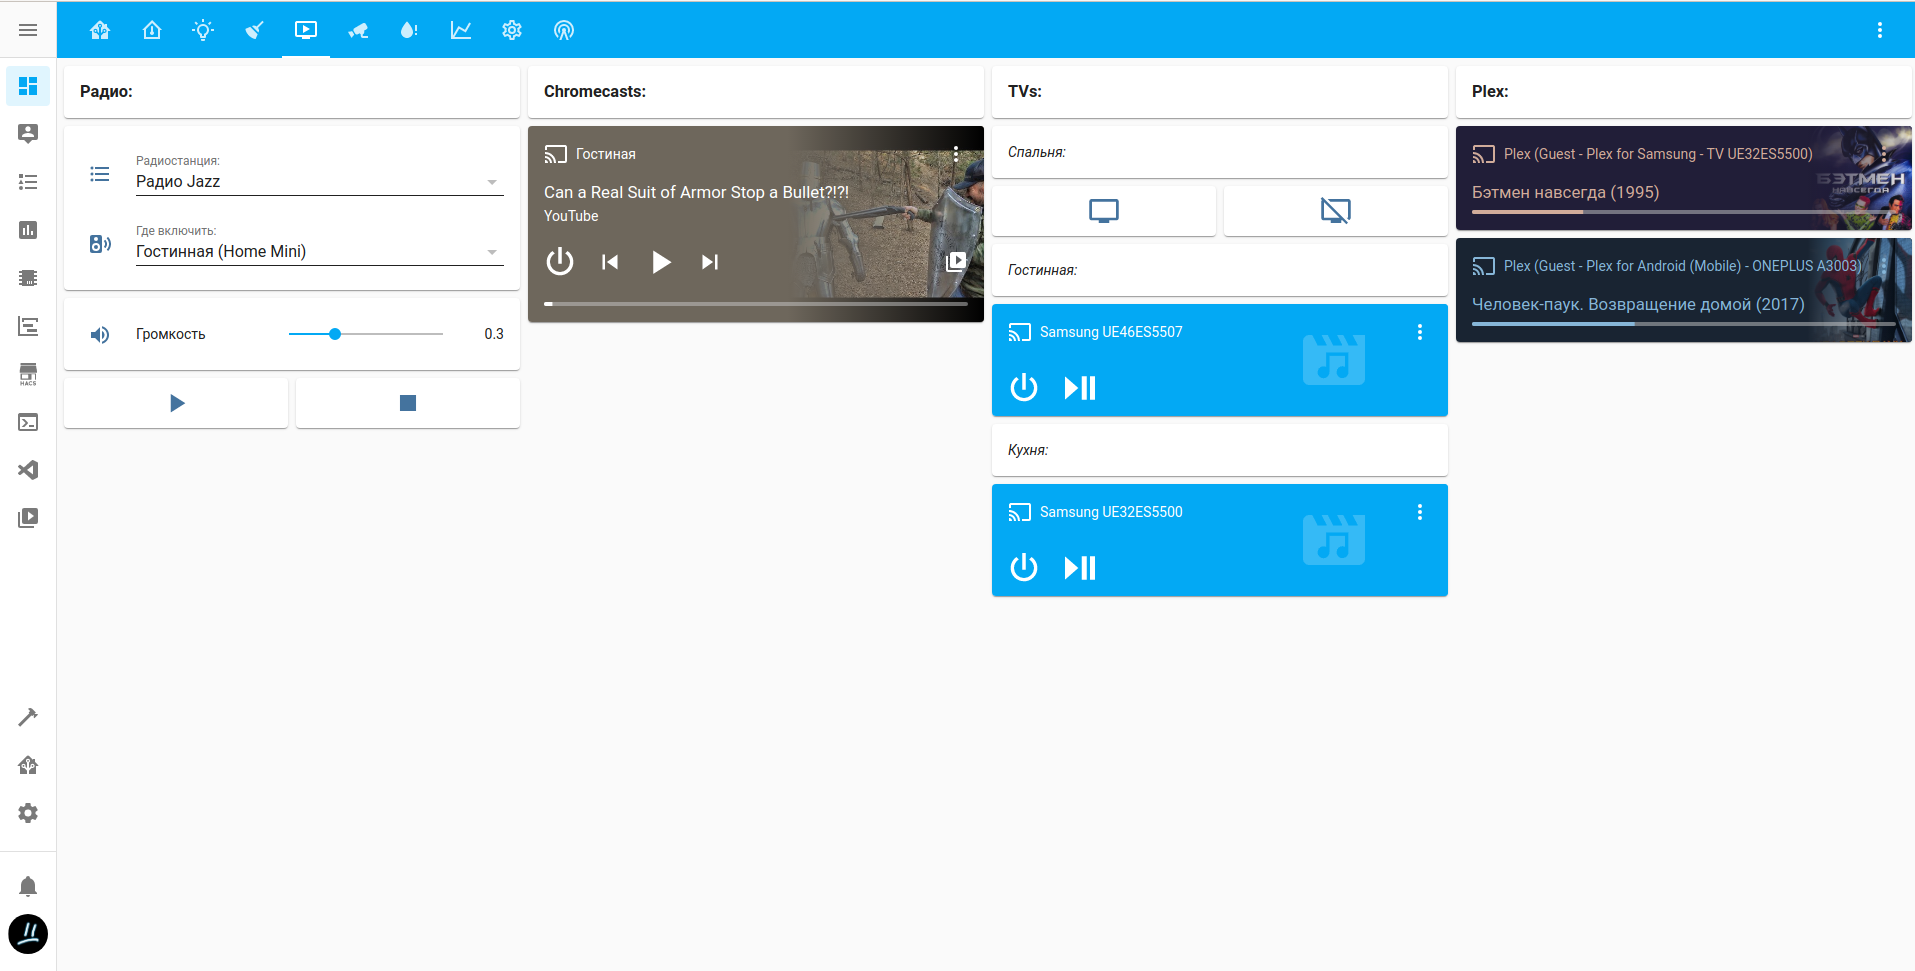
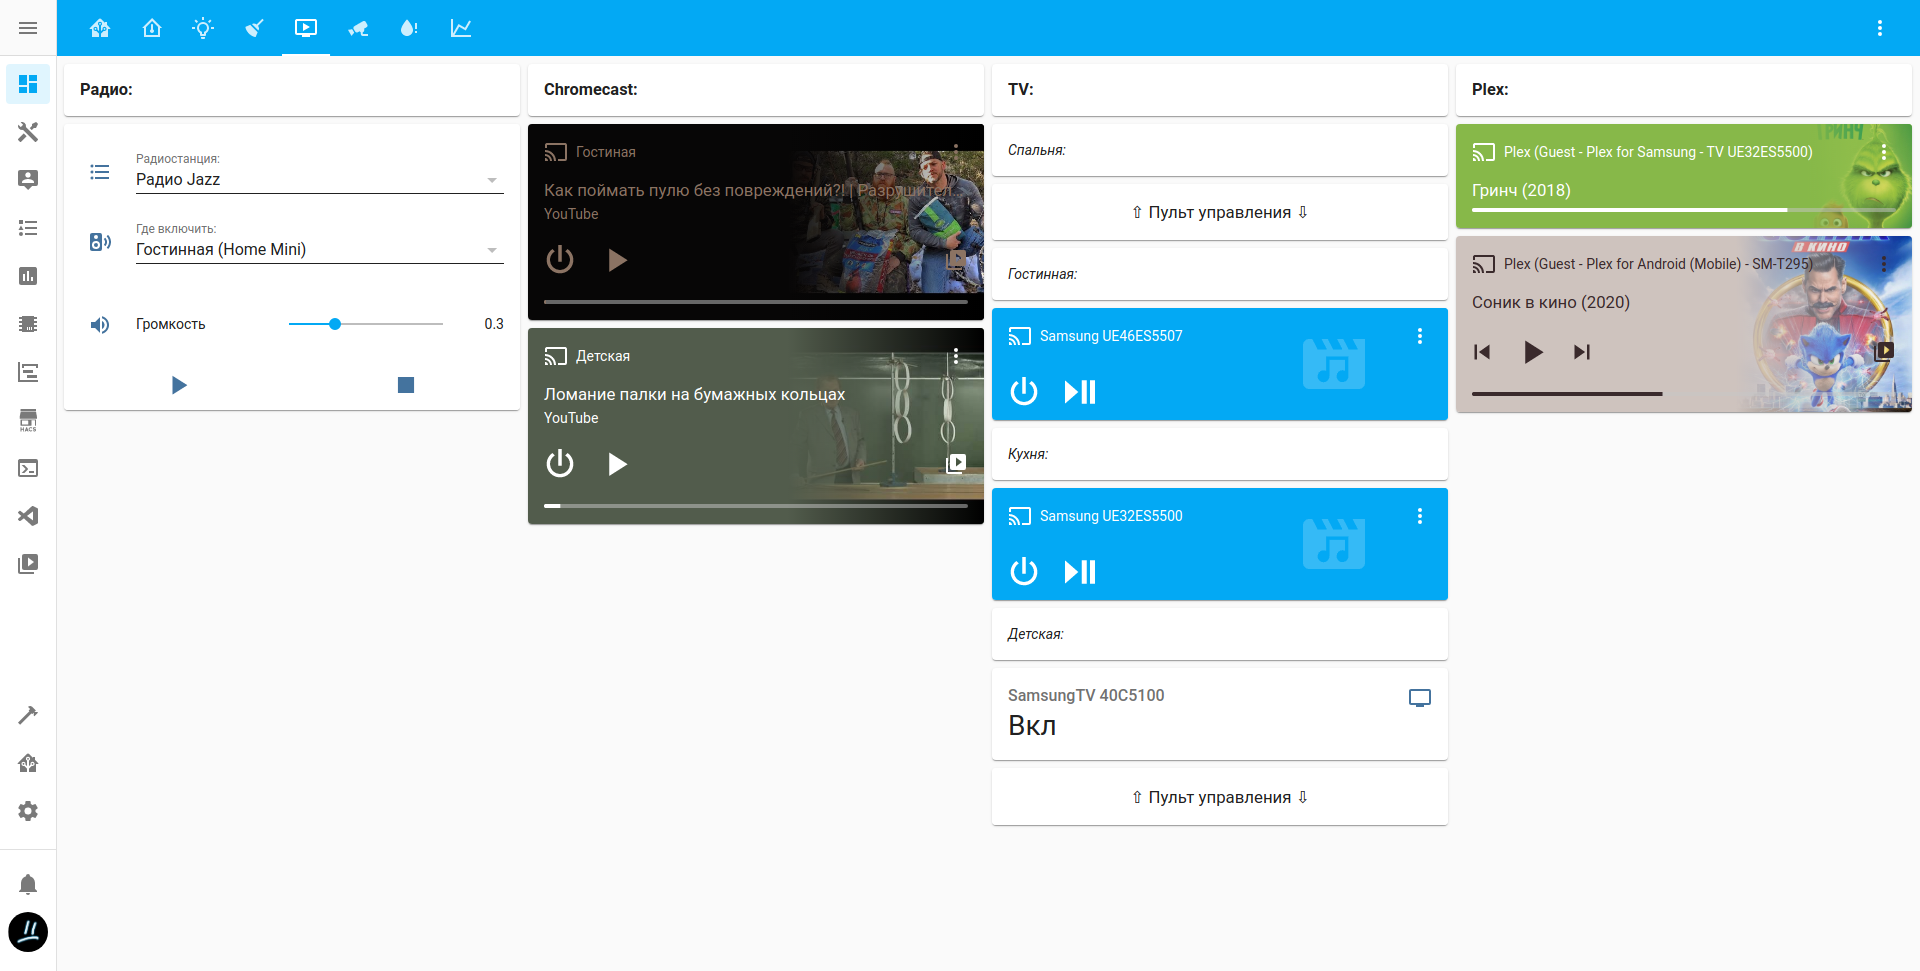
Multiple changes

diff --git a/docs/screenshots.md b/docs/screenshots.md
@@ -16,9 +16,9 @@ Big cards are very useful in both - mobile and desktop.
 ![Media](screenshots/Media.png)
 
 **IR TV Remote control**
-|Hidden|Visible|
-|---|---|
-|![TV_Remote_Hidden](screenshots/TV_Remote_Hidden.png)|![TV_Remote_Visible](screenshots/TV_Remote_Visible.png)|
+|Hidden|Visible|Visible|
+|---|---|---|
+|![TV_Remote_Hidden](screenshots/TV_Remote_Hidden.png)|![TV_Remote_Visible](screenshots/TV_Remote_Visible.png)|![TV_Remote_Visible_2](screenshots/TV_Remote_Visible_2.png)|
 
 **Cameras**\
 ![Cam](screenshots/Cam.png)
